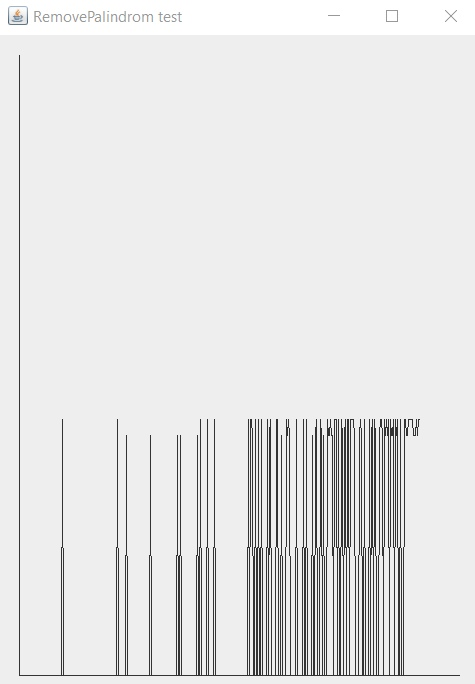
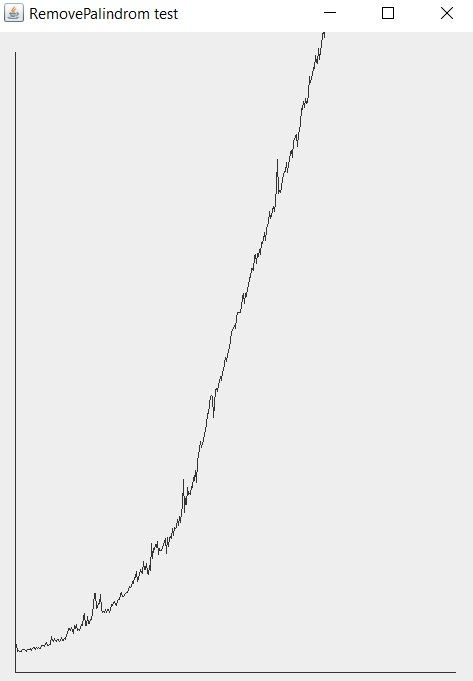
add tests

diff --git a/src/WordSet.java b/src/WordSet.java
@@ -61,7 +61,7 @@ public class WordSet {
     /**
      * A constructor that creates an instance of the WordSet class based on an array of words.
      * @param arr - The array from which to create WordSet.
-     * T = O(n^m) (n - the amount of the words in the WordSet,m - the amount of the words in the input array).
+     * T = O(n^2) (n - the amount of the words in the WordSet, m - the amount of the words in the input array).
      * M = O(n) (n - the amount of the words in the WordSet).
      */
     public WordSet(String[] arr) {
@@ -75,7 +75,7 @@ public class WordSet {
      * constructor #2 which merges two WordSets.
      * @param w1 - One of two combined sets
      * @param w2 - One of two combined sets.
-     * T = O(n+m) (n and m - number of elements in the combined sets).
+     * T = O(n + m) (n and m - number of elements in the combined sets).
      * M = O(n + m) (n and m - number of elements in the combined sets).
      */
     public WordSet(WordSet w1,WordSet w2){
@@ -129,7 +129,7 @@ public class WordSet {
      * WordSet string representation
      * @return wordSet string representation
      * T = O(n) (n - the amount of the words in the WordSet).
-     * M = O(n*k + t) (n - the amount of the words in the WordSet, k - average number of characters in a word
+     * M = O(n*k + t) (n - the amount of the words in the WordSet, k - average size of characters in a word
      * of WordSet, t - the amount of memory reserved by StringBuilder).
      */
     public String toString(){
@@ -289,7 +289,6 @@ public class WordSet {
     public WordSet newWordSetByWordLength(int len) {
         WordSet result = new WordSet();
         if (this.head == null) {
-            // try to fix NullPointerExsception
             return null;
         } else {
             Node nextNode = this.head;

diff --git a/src/TimeMeasurements.java b/src/TimeMeasurements.java
@@ -21,7 +21,7 @@ public class TimeMeasurements extends JFrame {
     public static int n = 400;
 
     public TimeMeasurements() {
-        super("newWordSetByWordLength test");
+        super("arrWordSet test");
         WordSet ws = new WordSet();
         WordSet wws = new WordSet();
         WordSet wsw;
@@ -30,19 +30,26 @@ public class TimeMeasurements extends JFrame {
         for (int i = 1;i<401;i++){
             x[i-1] = i + 20;
         }
-        StringBuilder str = new StringBuilder("aaaaa");
+        StringBuilder str = new StringBuilder("aaa");
         StringBuilder str1 = new StringBuilder("bbbbb");
+        int amount = 100;
 
         for (int i=0;i<400;i++){
-            String s = str.toString();
-            String s1 = str1.toString();
-            String[] strs = new String[i];
 
-            long start = System.currentTimeMillis();
+                String[] strs = new String[amount];
+                String[] strs1 = new String[amount];
 
-            ws.removePalindrom();
+                for (int j = 0; j < amount; j++) {
+                    strs[j] = "" + Math.random()*1000000;
+                }
 
-            long finish = System.currentTimeMillis();
+                long start = System.currentTimeMillis();
+
+                WordSet test = new WordSet(strs);
+
+                long finish = System.currentTimeMillis();
+
+                amount += 10;
 
             long  timeConsumedMillis = finish - start;
             y[i] = 490 - (int) (timeConsumedMillis * 5);

diff --git a/src/Test.java b/src/Test.java
@@ -7,7 +7,7 @@ public class Test {
 
         WordSet wset = new WordSet(str);
         System.out.println(wset.toString());
-        System.out.println(wset.newWordSetByWordLength(10));
+        System.out.println(wset.newWordSetByWordLength(2));
         System.out.println(wset.vowelDivide()[0].toString());
         System.out.println(wset.vowelDivide()[1].toString());
     }
